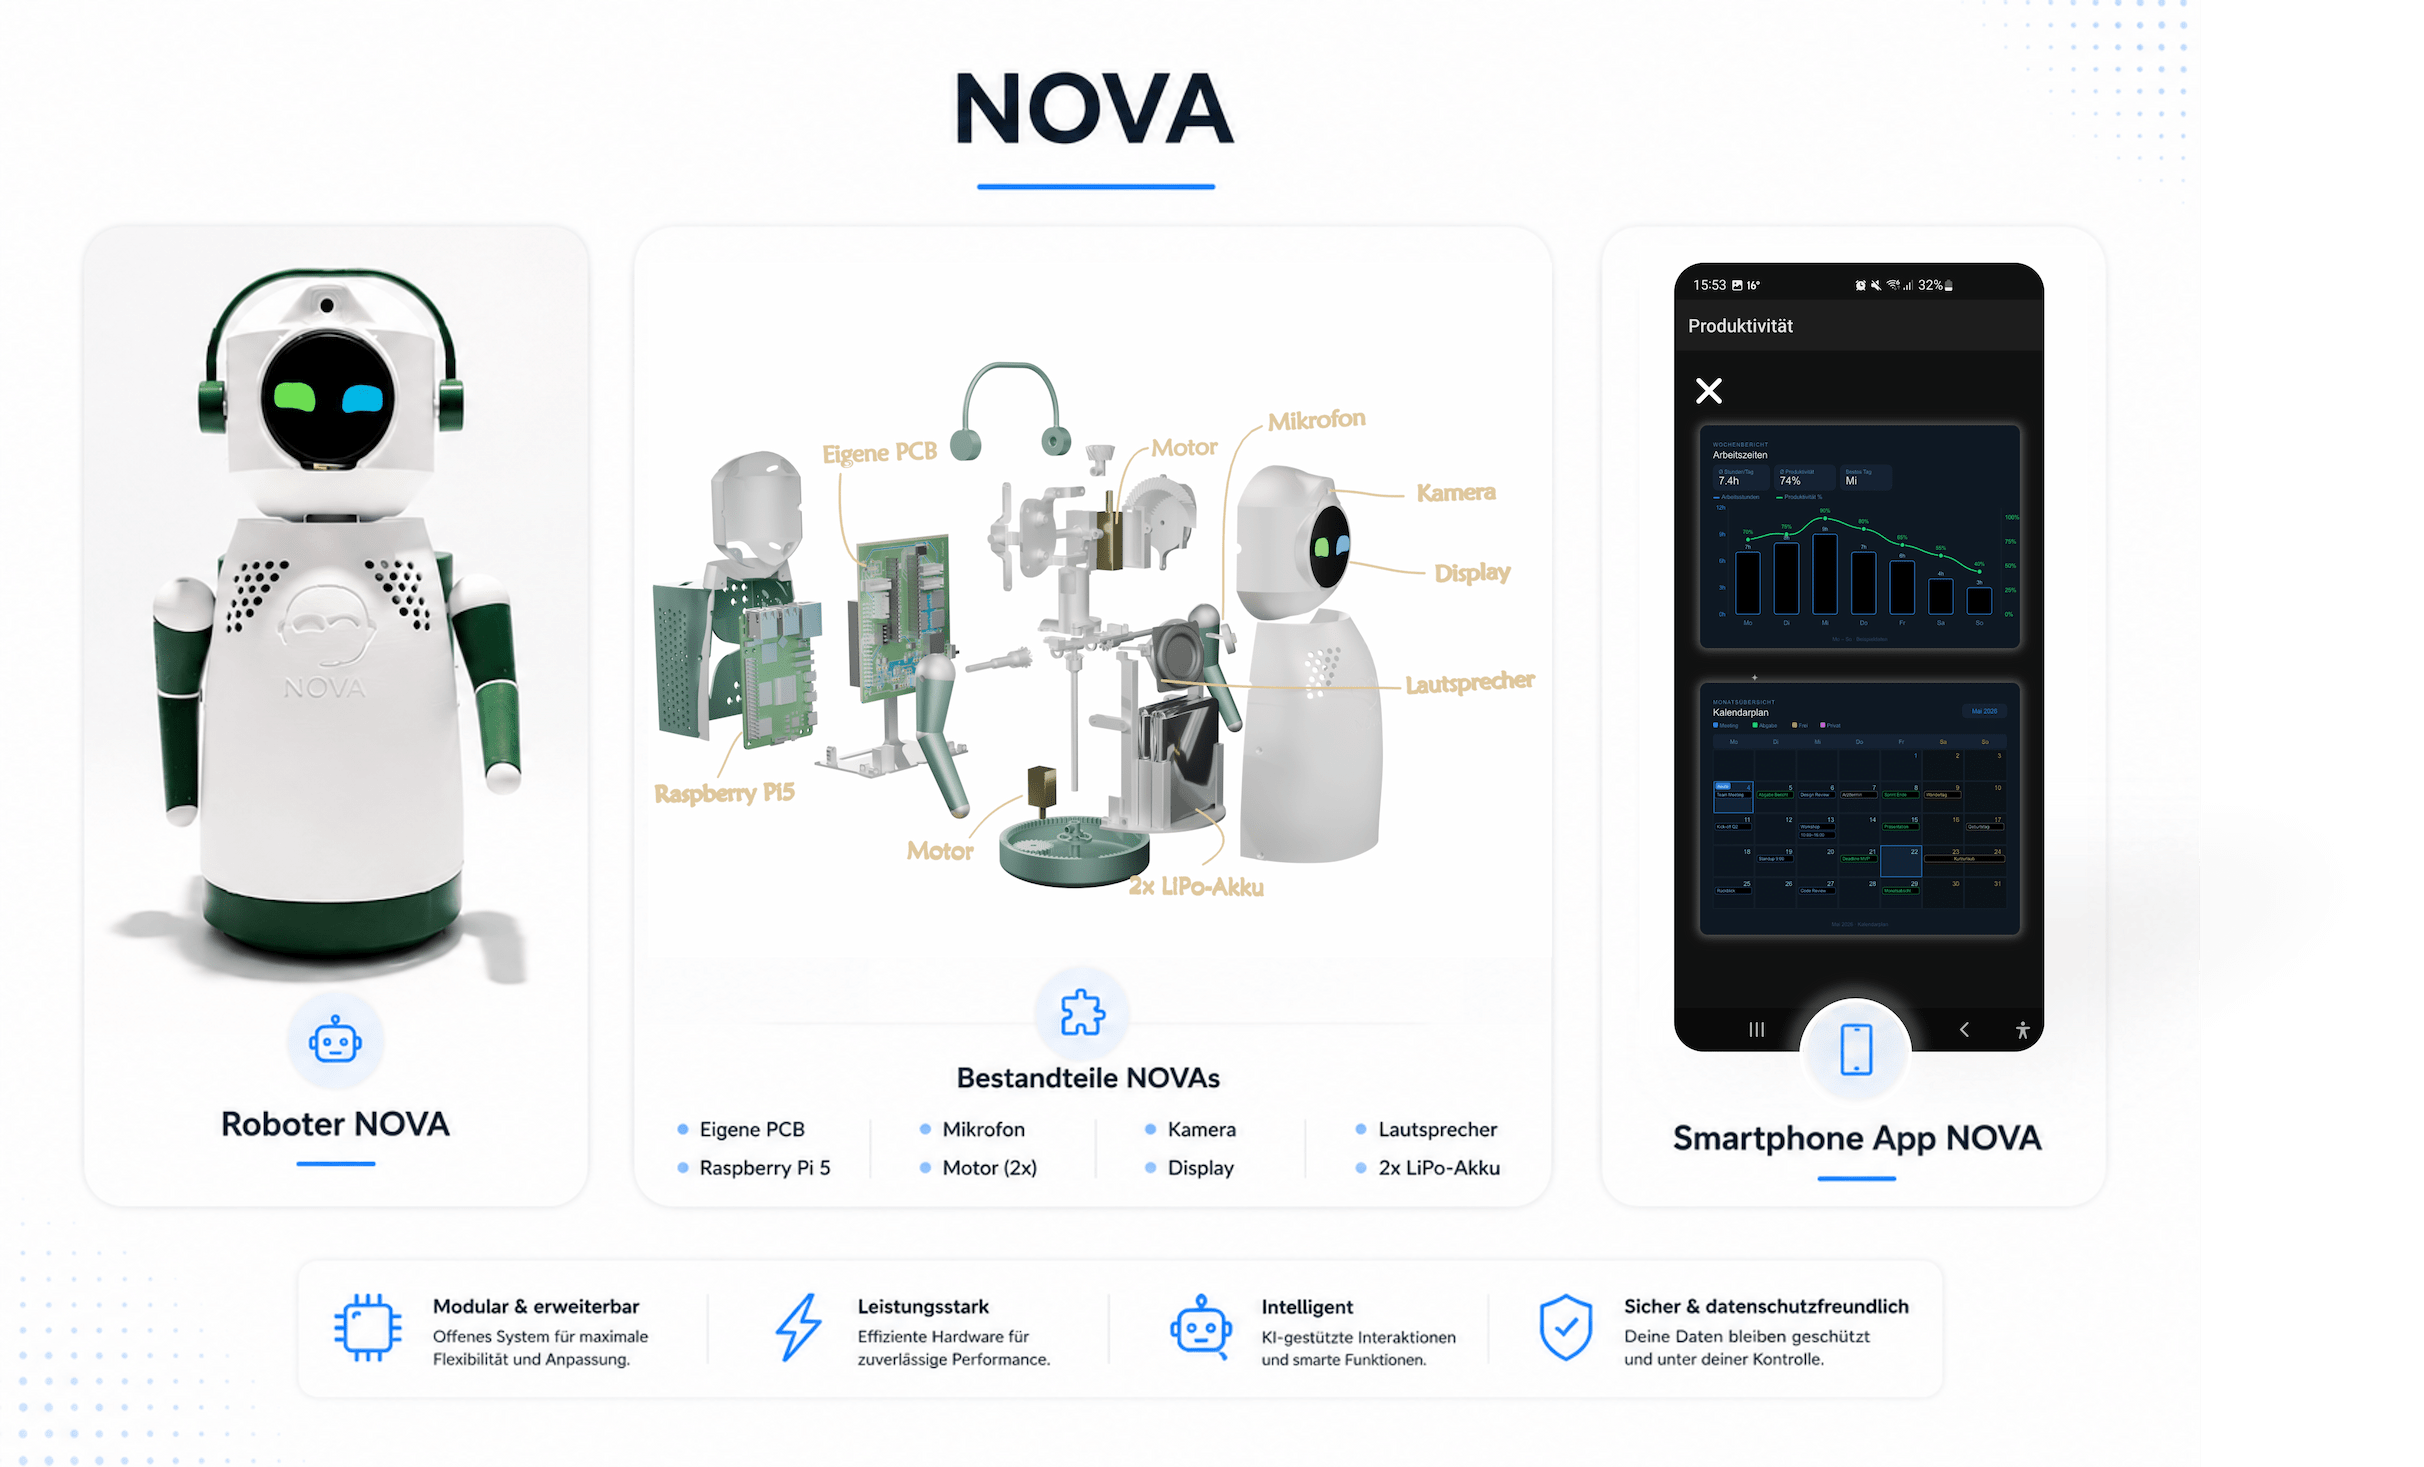
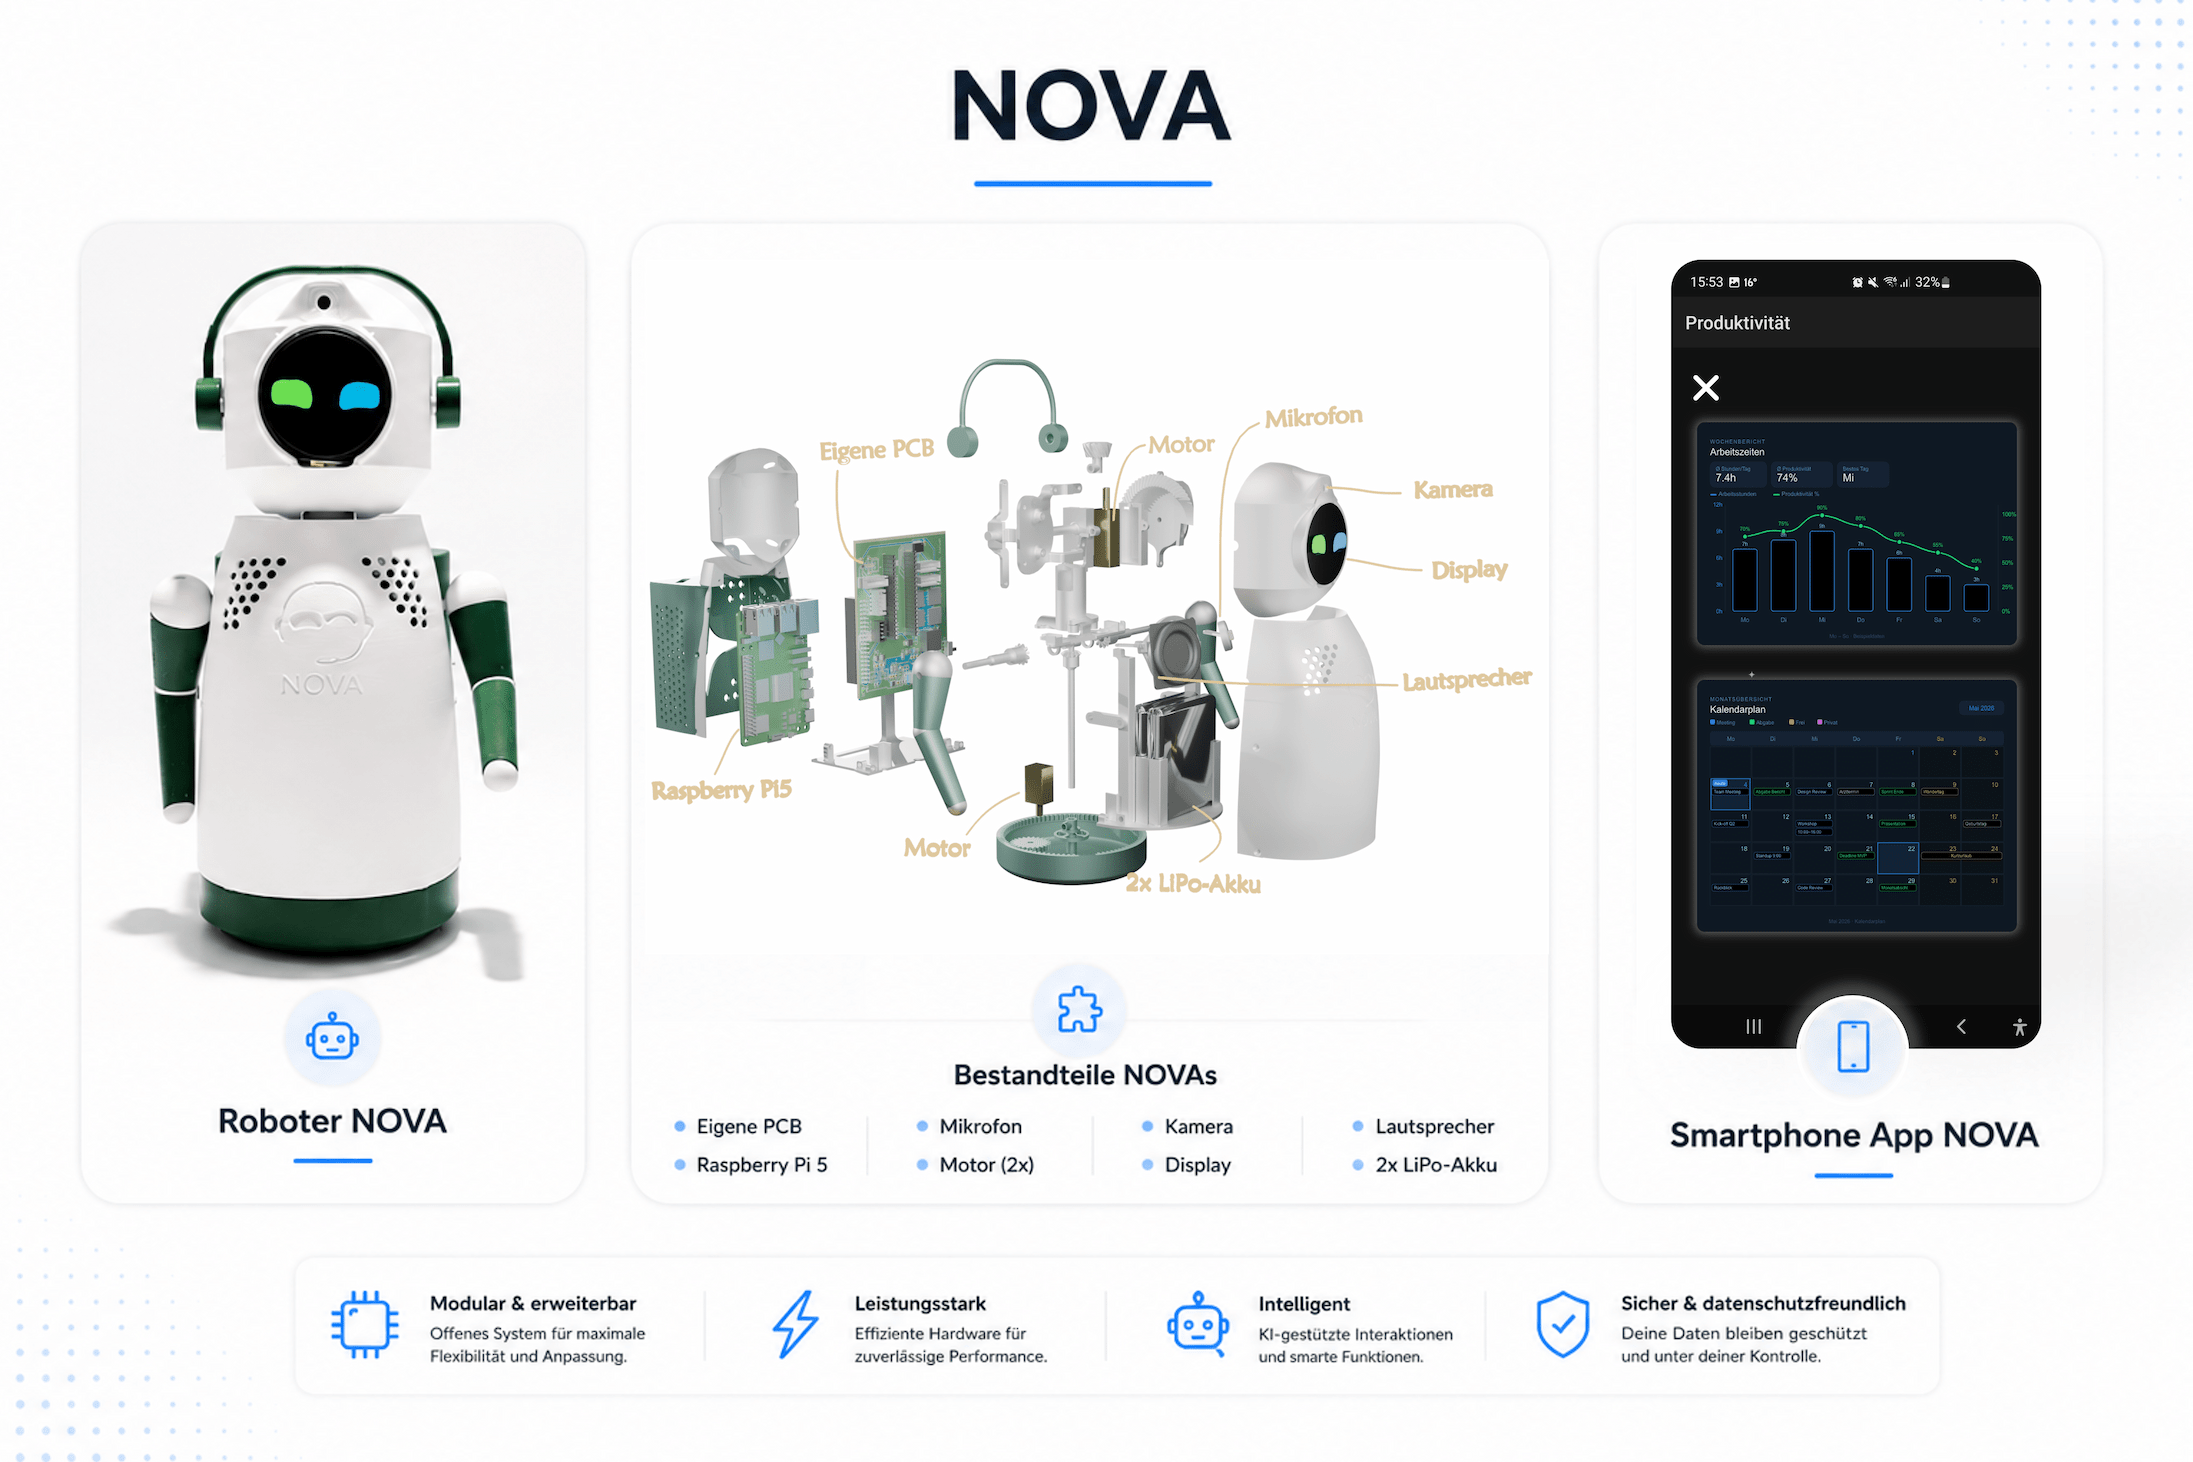
finish

diff --git a/app/product/page.tsx b/app/product/page.tsx
@@ -348,6 +348,13 @@ export default function team() {
           style={{
             flex: "1 1 350px",
             color: "white",
+
+            display: "flex",
+            flexDirection: "column",
+            justifyContent: "center",
+
+            textAlign: "center",
+            alignItems: "center",
           }}
         >
           <h2
@@ -379,19 +386,28 @@ export default function team() {
         <div
           style={{
             flex: "1 1 500px",
+
+            display: "flex",
+            justifyContent: "center",
+            alignItems: "center",
           }}
         >
           <Image
             src="/images/product/Produkt.png"
             alt="NOVA Technology"
-            width={500}
-            height={400}
+            width={900}
+            height={600}
             style={{
+              width: "100%",
+              maxWidth: "700px",
+              aspectRatio: "3 / 2",
+              objectFit: "cover",
+
               display: "block",
-              flex: "1 1 320px",
               borderRadius: "24px",
-              overflow: "hidden",
-              minHeight: "420px",
+
+              boxShadow:
+                "0px 20px 50px rgba(0,0,0,0.35)",
             }}
           />
         </div>
